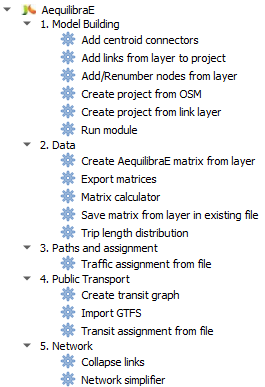
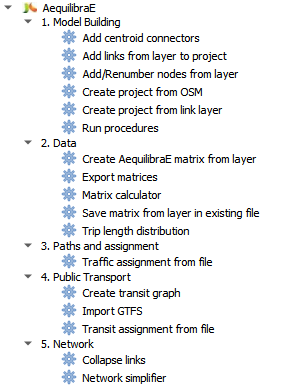
run procedures instead

Changed region(s): [[0.0, 0.0, 0.9962, 1.0], [0.0906, 0.6839, 0.1208, 0.7461], [0.0906, 0.342, 0.1208, 0.3731]]

diff --git a/qaequilibrae/modules/processing_provider/run_module.py b/qaequilibrae/modules/processing_provider/run_module.py
@@ -10,7 +10,7 @@ from qaequilibrae.i18n.translate import trlt
 from qaequilibrae.modules.common_tools import list_func
 
 
-class RunModule(QgsProcessingAlgorithm):
+class RunProcedures(QgsProcessingAlgorithm):
     def initAlgorithm(self, config=None):
         try:
             # Attempt to retrieve the AequilibraE plugin instance
@@ -69,10 +69,10 @@ class RunModule(QgsProcessingAlgorithm):
         return {"Output": "Success: Check logfile for details"}
 
     def name(self):
-        return "runmodule"
+        return "runprocedures"
 
     def displayName(self):
-        return self.tr("Run module")
+        return self.tr("Run procedures")
 
     def group(self):
         return self.tr("1. Model Building")
@@ -84,7 +84,7 @@ class RunModule(QgsProcessingAlgorithm):
         return self.tr("Run entire model pipelines from AequilibraE")
 
     def createInstance(self):
-        return RunModule()
+        return RunProcedures()
 
     def tr(self, message):
-        return trlt("RunModule", message)
+        return trlt("RunProcedures", message)

diff --git a/test/test_processing_provider.py b/test/test_processing_provider.py
@@ -40,7 +40,7 @@ from qaequilibrae.modules.processing_provider.project_from_OSM import ProjectFro
 from qaequilibrae.modules.processing_provider.project_from_layer import ProjectFromLayer
 from qaequilibrae.modules.processing_provider.provider import Provider
 from qaequilibrae.modules.processing_provider.renumber_nodes_from_layer import RenumberNodesFromLayer
-from qaequilibrae.modules.processing_provider.run_module import RunModule
+from qaequilibrae.modules.processing_provider.run_module import RunProcedures
 from qaequilibrae.modules.processing_provider.trip_length_distribution import TripLengthDistribution
 from .utilities import load_sfalls_from_layer, load_test_layer
 
@@ -531,7 +531,7 @@ def test_run_module(folder_path):
 
     parameters = {"available_funcs": 0}
 
-    action = RunModule()
+    action = RunProcedures()
     action.filepath = join(project.project_base_path, "run/__init__.py")
     action.items = ["matrix_summary", "graph_summary", "results_summary", "example_function_with_kwargs"]
 

diff --git a/qaequilibrae/modules/processing_provider/provider.py b/qaequilibrae/modules/processing_provider/provider.py
@@ -31,7 +31,7 @@ class Provider(QgsProcessingProvider):
         from .trip_length_distribution import TripLengthDistribution
         from .network_simplifier import NetworkSimplifier
         from .collapse_links import CollapseLinks
-        from .run_module import RunModule
+        from .run_module import RunProcedures
 
         self.addAlgorithm(AddConnectors())
         self.addAlgorithm(AddLinksFromLayer())
@@ -49,7 +49,7 @@ class Provider(QgsProcessingProvider):
         self.addAlgorithm(TripLengthDistribution())
         self.addAlgorithm(NetworkSimplifier())
         self.addAlgorithm(CollapseLinks())
-        self.addAlgorithm(RunModule())
+        self.addAlgorithm(RunProcedures())
 
     def id(self):
         """The ID used for identifying the provider.

diff --git a/qaequilibrae/qaequilibrae.py b/qaequilibrae/qaequilibrae.py
@@ -112,7 +112,7 @@ class AequilibraEMenu:
         self.add_menu_action(self.tr("Project"), self.tr("Create example"), partial(create_example, self))
         self.add_menu_action(self.tr("Project"), self.tr("Parameters"), partial(run_change_parameters, self))
         self.add_menu_action(self.tr("Project"), self.tr("logfile"), partial(show_log, self))
-        self.add_menu_action(self.tr("Project"), self.tr("Run module"), partial(run_module, self))
+        self.add_menu_action(self.tr("Project"), self.tr("Run procedures"), partial(run_module, self))
         self.add_menu_action(self.tr("Project"), self.tr("Close project"), self.run_close_project)
 
         # # # ########################################################################

diff --git a/test/test_qaequilibrae_menu_without_project.py b/test/test_qaequilibrae_menu_without_project.py
@@ -69,7 +69,7 @@ def test_logfile_menu(ae, qtbot):
 def test_run_module_menu(ae, qtbot):
     action = next((a for a in ae.menuActions["Project"] if a.text() == "Run module"), None)
     assert action is not None, "Menu action 'Run module' not found"
-    assert action.text() == "Run module", "Wrong text content"
+    assert action.text() == "Run procedures", "Wrong text content"
     action.trigger()
     messagebar = ae.iface.messageBar()
     assert messagebar.messages[3][0] == "Error:You need to load a project first", "Level 3 error message is missing"

diff --git a/test/test_qaequilibrae_menu_with_project.py b/test/test_qaequilibrae_menu_with_project.py
@@ -78,7 +78,7 @@ def test_run_module_menu(coquimbo_project, qtbot):
         check_if_new_active_window_matches_class(qtbot, RunModuleDialog)
 
     action = coquimbo_project.menuActions["Project"][4]
-    assert action.text() == "Run module", "Wrong text content"
+    assert action.text() == "Run procedures", "Wrong text content"
     QTimer.singleShot(10, handle_trigger)
     action.trigger()
     messagebar = coquimbo_project.iface.messageBar()

diff --git a/qaequilibrae/modules/project_procedures/run_module_dialog.py b/qaequilibrae/modules/project_procedures/run_module_dialog.py
@@ -36,7 +36,7 @@ class RunModuleDialog(QtWidgets.QDialog, FORM_CLASS):
         result = func()
         self.logger.info(result)
 
-        self.iface.messageBar().pushMessage("Run module executed", "", level=Qgis.Info, duration=5)
+        self.iface.messageBar().pushMessage(self.tr("Run procedures executed"), "", level=Qgis.Info, duration=5)
 
         self.exit_procedure()
 

diff --git a/docs/source/menus_in_detail/project.rst b/docs/source/menus_in_detail/project.rst
@@ -80,12 +80,12 @@ using the **save to disk** button in the lower left corner of the log file box.
     :align: center
     :alt: proj logfile
 
-.. _run-module:
+.. _run-procedures:
 
-Run module
-----------
+Run procedures
+--------------
 
-The run module allows you to define model entry points and their default arguments, and run models
+The run procedures allows you to define model entry points and their default arguments, and run models
 to the model itself. Usage at QAequilibraE is pretty straightforward: select one of the available
 functions, click on the *Run!* button, and wait for the log file to open with the output results of
 the model.

diff --git a/docs/source/processing_provider.rst b/docs/source/processing_provider.rst
@@ -89,9 +89,9 @@ project only specifying the place name and the folder path and name you want to 
     :align: center
     :alt: Processing provider create project from osm
 
-Run module
-~~~~~~~~~~~
-This tool is similar to the widget menu :ref:`Run module <run-module>`, and allows you to 
+Run procedures
+~~~~~~~~~~~~~~~
+This tool is similar to the widget menu :ref:`Run procedures <run-procedures>`, and allows you to 
 use defined entry points and arguments, and run models to the model itself. To use this tool,
 just select one of the available functions, and once the algorithm is finished, go to the log
 file to check the outputs.
